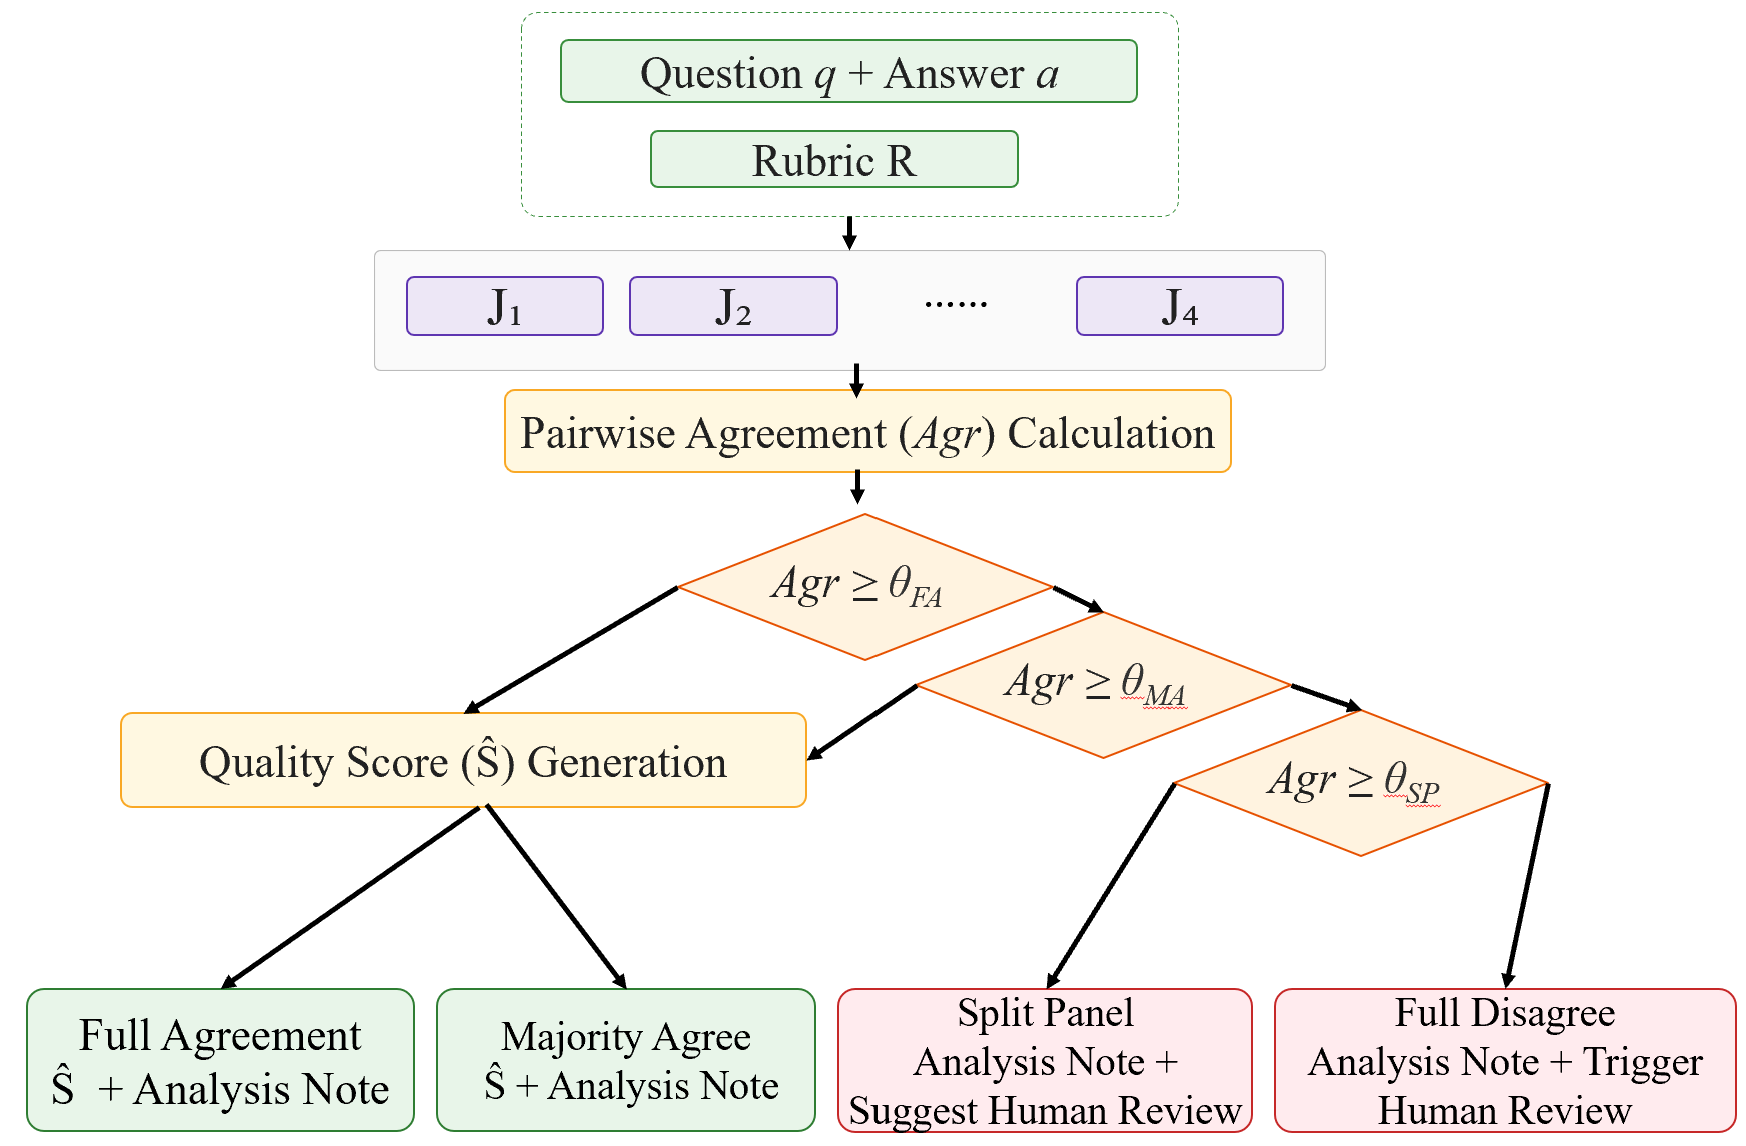
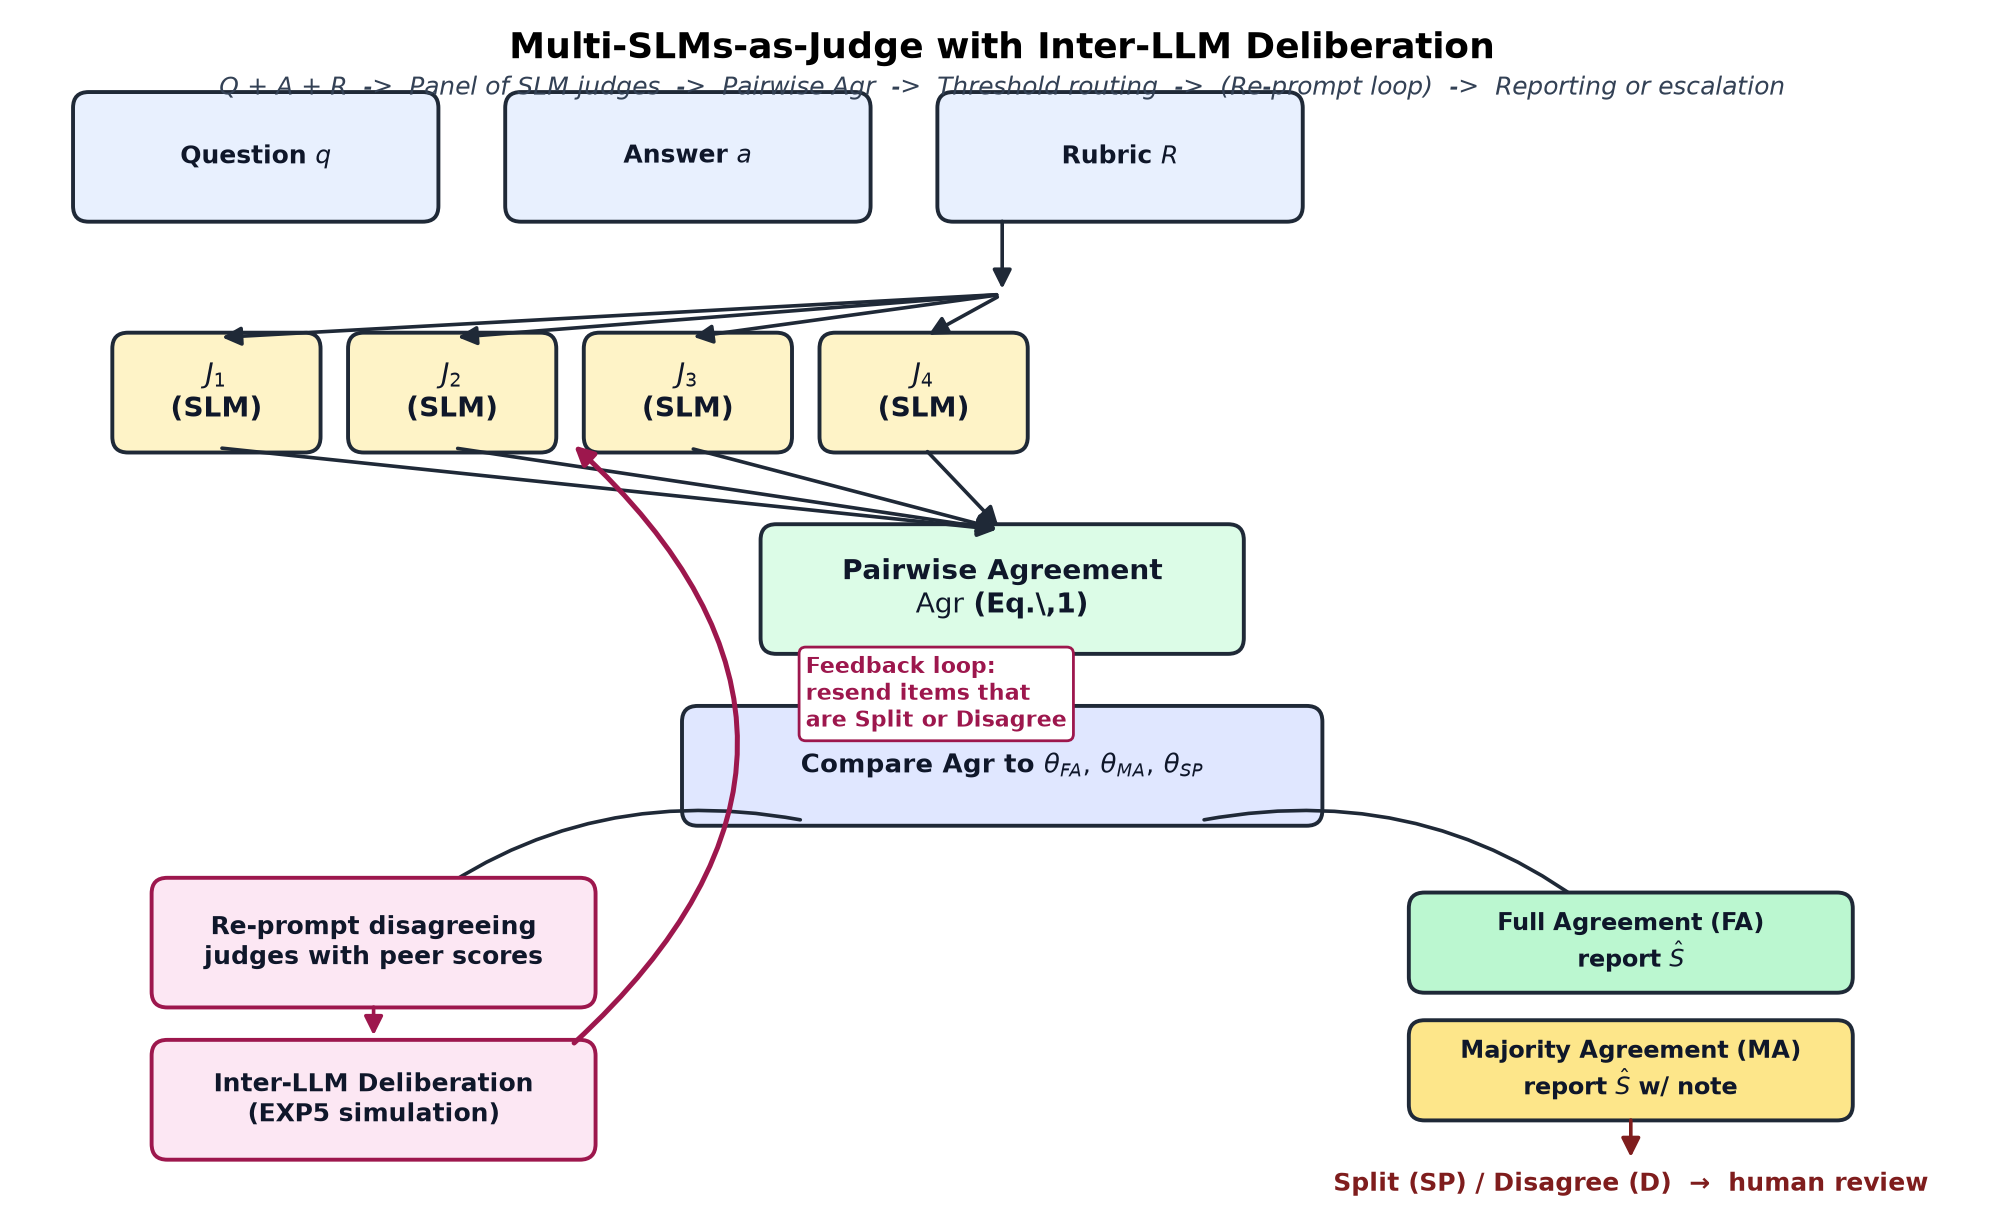
Update framework figure to include Exp5 Inter-LLM Deliberation feedback loop
The framework previously terminated at threshold routing; this commit
extends it to a three-step pipeline so the figure matches the paper:

  1. Pairwise agreement (Agr)
  2. Threshold routing -> FA/MA report S-hat, SP/D escalate
  3. NEW: SP/D cases flow through a deliberation feedback loop where
     disagreeing judges are re-prompted with peer scores and rationales

Visual changes:
- Pink 'Re-prompt disagreeing judges with peer scores' box
- Pink 'Inter-LLM Deliberation (EXP5 simulation)' box
- Magenta feedback arrow returning to the judge row
- 'Feedback loop: resend items that are Split or Disagree' annotation

Text changes:
- System Overview now describes a three-step pipeline
- Figure caption references Exp5 and the SP/D re-prompting path

Also added scripts/build_framework_figure.py so the figure is
reproducible from source.

diff --git a/scripts/build_framework_figure.py b/scripts/build_framework_figure.py
@@ -1,0 +1,135 @@
+"""Regenerate framework.png for the IEEE Big Data 2026 paper.
+
+The figure shows the EXP5 Inter-LLM Deliberation feedback loop:
+judges that disagree with the panel after the first round are
+re-prompted with the other judges' scores and rationales, so the
+framework has a feedback loop rather than a strictly one-shot
+routing pipeline.
+"""
+import matplotlib.pyplot as plt
+from matplotlib.patches import FancyBboxPatch, FancyArrowPatch
+
+# ---- canvas -----------------------------------------------------------------
+fig, ax = plt.subplots(figsize=(11, 6.2))
+ax.set_xlim(0, 100)
+ax.set_ylim(0, 60)
+ax.set_aspect("equal")
+ax.axis("off")
+
+# color palette
+COL_INPUT   = "#E8F0FE"   # light blue
+COL_JUDGE   = "#FEF3C7"   # light amber
+COL_AGR     = "#DCFCE7"   # light green
+COL_DECIDE  = "#E0E7FF"   # lavender
+COL_DELIB   = "#FCE7F3"   # light pink
+COL_OUT_FA  = "#BBF7D0"   # green
+COL_OUT_MA  = "#FDE68A"   # yellow
+COL_OUT_DD  = "#7F1D1D"   # dark red
+
+EDGE = "#1F2937"
+DELIB_EDGE = "#9D174D"     # dark pink for the deliberation loop
+
+# ---- helpers ---------------------------------------------------------------
+def box(x, y, w, h, text, fc, ec=EDGE, fontsize=9, weight="bold", textcolor="#0F172A"):
+    p = FancyBboxPatch(
+        (x - w / 2, y - h / 2), w, h,
+        boxstyle="round,pad=0.3,rounding_size=0.8",
+        linewidth=1.4, facecolor=fc, edgecolor=ec,
+    )
+    ax.add_patch(p)
+    ax.text(x, y, text, ha="center", va="center",
+            fontsize=fontsize, fontweight=weight, color=textcolor)
+
+def arrow(x1, y1, x2, y2, label="", color=EDGE, curve=0.0,
+          fontsize=8, style="-|>", lw=1.3):
+    arr = FancyArrowPatch(
+        (x1, y1), (x2, y2),
+        arrowstyle=style, mutation_scale=14,
+        color=color, linewidth=lw,
+        connectionstyle=f"arc3,rad={curve}",
+    )
+    ax.add_patch(arr)
+    if label:
+        ax.text((x1 + x2) / 2 + curve * 4, (y1 + y2) / 2,
+                label, fontsize=fontsize, color=color, fontweight="bold",
+                ha="center", va="center",
+                bbox=dict(boxstyle="round,pad=0.15", fc="white", ec="none", alpha=0.85))
+
+# ---- row 1: inputs ---------------------------------------------------------
+box(12, 53, 18, 6, "Question $q$", COL_INPUT)
+box(34, 53, 18, 6, "Answer $a$", COL_INPUT)
+box(56, 53, 18, 6, "Rubric $R$", COL_INPUT)
+
+# ---- row 2: judge panel ----------------------------------------------------
+judge_y = 41
+n = 4
+positions = [10 + i * 12 for i in range(n)]
+for i, x in enumerate(positions):
+    box(x, judge_y, 10, 5.5, f"$J_{i+1}$\n(SLM)", COL_JUDGE, fontsize=10)
+
+# arrows from inputs to a fan-in, then to each judge
+ax.add_patch(FancyArrowPatch((50, 50), (50, 46),
+                             arrowstyle="-|>", mutation_scale=14,
+                             color=EDGE, linewidth=1.3))
+for x in positions:
+    arrow(50, 46, x, judge_y + 2.8, curve=0.0, style="-|>")
+
+# ---- row 3: pairwise agreement ---------------------------------------------
+box(50, 31, 24, 6, "Pairwise Agreement\n$\\mathrm{Agr}$ (Eq.\\,1)", COL_AGR, fontsize=10)
+for x in positions:
+    arrow(x, judge_y - 2.8, 50, 34, curve=0.0, style="-|>")
+
+# ---- row 4: threshold decision ---------------------------------------------
+arrow(50, 28, 50, 25, style="-|>")
+box(50, 22, 32, 5.5,
+    "Compare Agr to $\\theta_{FA},\\,\\theta_{MA},\\,\\theta_{SP}$",
+    COL_DECIDE, fontsize=9.5)
+
+# branching from decision box
+arrow(40, 19.2, 18, 13, curve=0.25, style="-|>")
+arrow(60, 19.2, 82, 13, curve=-0.25, style="-|>")
+
+# ---- row 5 (left): DELIBERATION loop ---------------------------------------
+box(18, 13, 22, 6,
+    "Re-prompt disagreeing\njudges with peer scores",
+    COL_DELIB, ec=DELIB_EDGE, fontsize=9)
+arrow(18, 10, 18, 8, style="-|>", color=DELIB_EDGE)
+box(18, 5, 22, 5.5,
+    "Inter-LLM Deliberation\n(EXP5 simulation)",
+    COL_DELIB, ec=DELIB_EDGE, fontsize=9)
+
+# feedback arrow from deliberation up to the judges
+arrow(28, 7.7, 28, 38.5, curve=0.55, style="-|>",
+      color=DELIB_EDGE, lw=1.8)
+ax.text(40, 24,
+        "Feedback loop:\nresend items that\nare Split or Disagree",
+        fontsize=8, color=DELIB_EDGE, fontweight="bold",
+        bbox=dict(boxstyle="round,pad=0.3", fc="white",
+                  ec=DELIB_EDGE, linewidth=1.0))
+
+# ---- row 5 (right): outcomes ----------------------------------------------
+box(82, 13, 22, 4.5,
+    "Full Agreement (FA)\nreport $\\hat{S}$",
+    COL_OUT_FA, fontsize=8.5)
+box(82, 6.5, 22, 4.5,
+    "Majority Agreement (MA)\nreport $\\hat{S}$ w/ note",
+    COL_OUT_MA, fontsize=8.5)
+arrow(82, 4.25, 82, 1.8, style="-|>", color=COL_OUT_DD)
+ax.text(82, 0.7,
+        "Split (SP) / Disagree (D)  →  human review",
+        ha="center", va="center", fontsize=9,
+        fontweight="bold", color=COL_OUT_DD)
+
+# title
+ax.text(50, 58.5,
+        "Multi-SLMs-as-Judge with Inter-LLM Deliberation",
+        ha="center", va="center", fontsize=13, fontweight="bold")
+ax.text(50, 56.5,
+        "Q + A + R  ->  Panel of SLM judges  ->  Pairwise Agr  ->  "
+        "Threshold routing  ->  (Re-prompt loop)  ->  Reporting or escalation",
+        ha="center", va="center", fontsize=9, color="#334155", style="italic")
+
+plt.tight_layout()
+out = "/Users/mahindragupthakotha/Git Repo/multi-slm-judge-bigdata/paper/framework.png"
+plt.savefig(out, dpi=200, bbox_inches="tight", facecolor="white")
+print("wrote", out)

diff --git a/paper/bigdata2026_paper.tex b/paper/bigdata2026_paper.tex
@@ -86,11 +86,11 @@ A smaller body of work has begun to interrogate rubric and scale design for clin
 
 \subsection{System Overview}
 
-In the Multi-SLMs-as-Judge framework, each judge $J_i$ in the panel $\{J_1, \ldots, J_N\}$ independently receives three inputs: the medical question $q$, the candidate answer $a$, and the evaluation rubric $R$. The system proceeds in two strictly ordered steps. First, the pairwise agreement score $\mathrm{Agr}$ is computed across all judge pairs. Second, if and only if $\mathrm{Agr}$ exceeds a configurable threshold, the quality score $\hat{S}$ is computed and reported. This ordering is deliberate: reporting a quality score when judges strongly disagree would give users a false sense of confidence. By checking agreement first, the framework turns judge disagreement into an actionable routing signal.
+In the Multi-SLMs-as-Judge framework, each judge $J_i$ in the panel $\{J_1, \ldots, J_N\}$ independently receives three inputs: the medical question $q$, the candidate answer $a$, and the evaluation rubric $R$. The system proceeds in three steps. First, the pairwise agreement score $\mathrm{Agr}$ is computed across all judge pairs. Second, if and only if $\mathrm{Agr}$ exceeds a configurable threshold, the quality score $\hat{S}$ is computed and reported; otherwise the case is routed to human review. Third, and as a contribution of this paper, any case classified as Split (SP) or Disagreement (D) is fed back through the panel so that the judges that diverge from the peer median are re-prompted with the other judges' scores and rationales and asked to revise their assessment. We term this third step \emph{Inter-LLM Deliberation} and evaluate it in Exp5. This ordering is deliberate: reporting a quality score when judges strongly disagree would give users a false sense of confidence. By checking agreement first and then attempting a structured peer revision before escalation, the framework turns judge disagreement into an actionable routing signal that can sometimes be resolved without human intervention.
 
 \begin{figure}[htbp]
 \centerline{\includegraphics[width=\columnwidth]{framework.png}}
-\caption{Overview of the Multi-SLMs-as-Judge framework. The question $q$, candidate answer $a$, and rubric $R$ are routed to all judges $\{J_1,\ldots,J_N\}$ in parallel. Pairwise agreement $\mathrm{Agr}$ is computed and compared against user-configurable thresholds $\theta_{FA}$, $\theta_{MA}$, $\theta_{SP}$ to determine whether the quality score $\hat{S}$ is reported (Full/Majority Agreement) or the case is escalated to human review (Split/Full Disagree).}
+\caption{Overview of the Multi-SLMs-as-Judge framework with Inter-LLM Deliberation. The question $q$, candidate answer $a$, and rubric $R$ are routed to all judges $\{J_1,\ldots,J_N\}$ in parallel. Pairwise agreement $\mathrm{Agr}$ is computed and compared against user-configurable thresholds $\theta_{FA}$, $\theta_{MA}$, $\theta_{SP}$ to determine whether the quality score $\hat{S}$ is reported (Full/Majority Agreement) or the case is escalated to human review (Split/Full Disagree). Cases that fall into the Split or Disagree region are passed through the deliberation feedback loop, where disagreeing judges are re-prompted with peer scores and rationales before final routing.}
 \label{fig:framework}
 \end{figure}
 
